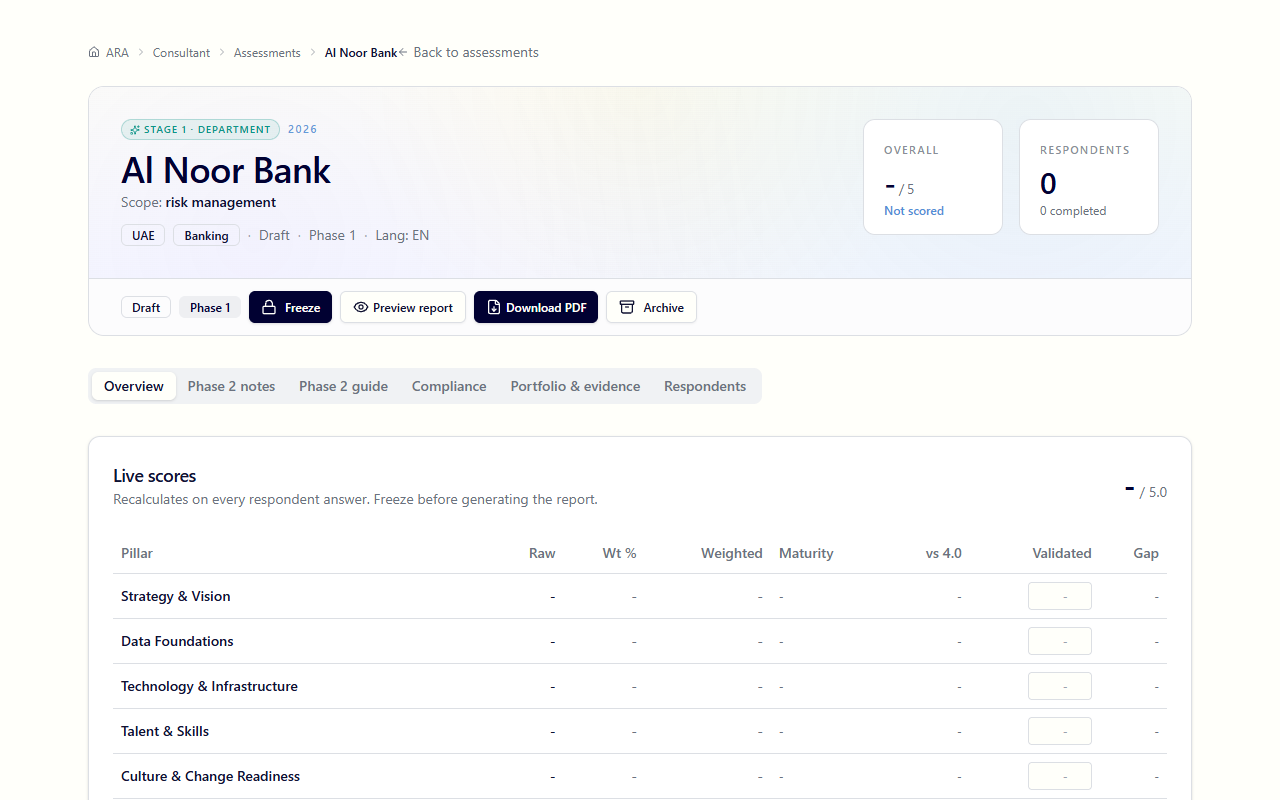
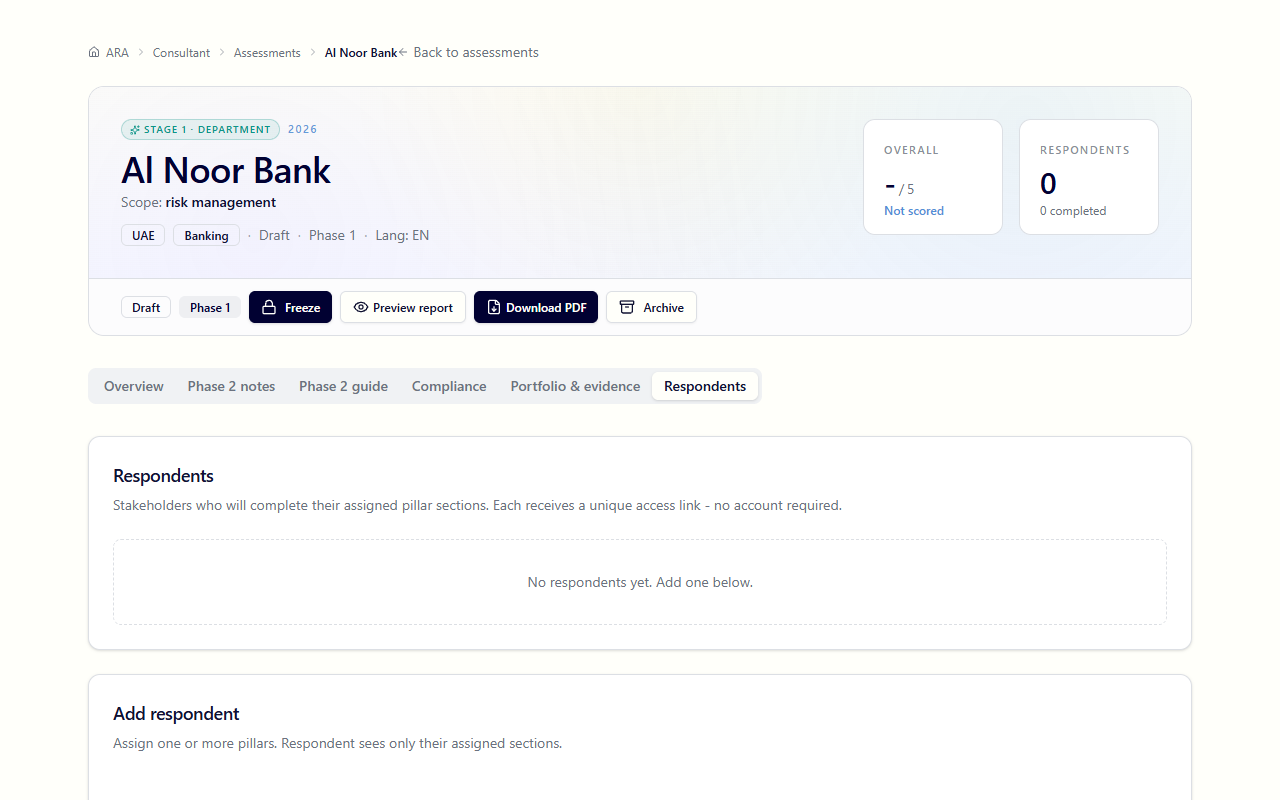
docs: actually click the tab triggers when capturing tab-driven shots
The Radix Tabs primitive used on the assessment detail page is
client-state, not URL-driven, so the previous shots for
14-respondents-tab.png and 16-phase2-tab.png both ended up
identical (the default Overview tab). Visible as identical md5s on
master.

Fix: extend the screenshot Shot type with an optional `clickByText`
field, and in the capture loop use page.evaluateHandle + Puppeteer's
ElementHandle.click() so real pointer events fire (Radix listens for
pointerdown, not bare HTMLElement.click()). Wait 1s for the tab
content to swap before snapping.

Two files re-captured; both now show the intended tab content.

diff --git a/scripts/capture-user-guide-screenshots.ts b/scripts/capture-user-guide-screenshots.ts
@@ -45,6 +45,9 @@ type Shot = {
   waitFor?: string;
   /** Optional scrollY before snapping */
   scrollY?: number;
+  /** Optional click — element text to find and click after navigation
+   *   (used to switch Radix Tabs which are client-state, not URL-driven). */
+  clickByText?: string;
 };
 
 const SHOTS: Shot[] = [
@@ -59,8 +62,8 @@ const SHOTS: Shot[] = [
   { module: "ara", file: "41-admin-regulatory.png",       path: "/ara/admin/regulatory" },
 
   // ── ARA — data-dependent (try to resolve a real record) ──
-  { module: "ara", file: "14-respondents-tab.png",        path: "/ara/consultant/assessments/{assessmentId}?tab=respondents" },
-  { module: "ara", file: "16-phase2-tab.png",             path: "/ara/consultant/assessments/{assessmentId}?tab=phase2" },
+  { module: "ara", file: "14-respondents-tab.png",        path: "/ara/consultant/assessments/{assessmentId}",                clickByText: "Respondents" },
+  { module: "ara", file: "16-phase2-tab.png",             path: "/ara/consultant/assessments/{assessmentId}",                clickByText: "Phase 2 notes" },
   { module: "ara", file: "21-respondent-welcome.png",     path: "/ara/respond/{respondentToken}" },
   { module: "ara", file: "22-respondent-question.png",    path: "/ara/respond/{respondentToken}", scrollY: 400 },
   { module: "ara", file: "31-personal-results.png",       path: "/ara/personal/results/{personalResultsToken}" },
@@ -173,6 +176,27 @@ async function captureOne(browser: Browser, shot: Shot, placeholders: Record<str
     }
     if (shot.waitFor) {
       await page.waitForSelector(shot.waitFor, { timeout: 5_000 }).catch(() => {});
+    }
+    if (shot.clickByText) {
+      // Find the element by text content (typically a Radix TabsTrigger
+      // <button role="tab"> with the given label) and click via
+      // Puppeteer's mouse so the pointer events fire — bare HTMLElement
+      // .click() doesn't trigger Radix's internal pointerdown listeners.
+      const handle = await page.evaluateHandle((needle: string) => {
+        const candidates = Array.from(
+          document.querySelectorAll('button, [role="tab"], a')
+        ) as HTMLElement[];
+        return candidates.find((c) => c.textContent?.trim() === needle) ?? null;
+      }, shot.clickByText);
+      const el = handle.asElement();
+      if (el) {
+        await (el as import("puppeteer").ElementHandle<HTMLElement>).click();
+      } else {
+        console.warn(`    (clickByText: "${shot.clickByText}" not found on page)`);
+      }
+      await handle.dispose();
+      // Tab content render + any animation settle.
+      await new Promise((r) => setTimeout(r, 1000));
     }
     if (shot.scrollY) {
       await page.evaluate((y) => window.scrollTo(0, y), shot.scrollY);